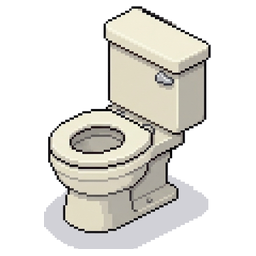
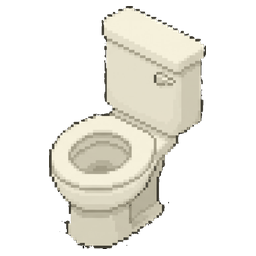
아동용 변기: 기본 변기 그림을 크림색으로 칠해 네 방향 지원
기본 변기 네 방향 그림을 아동용 변기 색으로 바꿔 쓰고, 2x2 자리에 맞춰 작게 그림.

Claude-Session: https://claude.ai/code/session_01MbA6voPuP9hfFURsXTDC13

Changed region(s): [[0.1562, 0.0, 0.8438, 1.0]]

diff --git a/js/config.js b/js/config.js
@@ -40,7 +40,7 @@ var MODU_CONFIG = {
       desc: '꼭 필요해요. 돌리기로 네 방향 어느 벽이든 등지게 놓을 수 있어요.' },
     // anchor: 'center' = 그림 가운데를 차지한 칸들의 가운데 위에 둠 (벽에서 앞으로 튀어나온 큰 벽걸이 물건)
     // 실제 약 35 × 50cm
-    { id: 'childToilet', name: '아동용 변기', layer: 'floor', group: '설비', w: 2, h: 2, rotations: [0, 3], emoji: '🚽', color: '#fff3c4',
+    { id: 'childToilet', name: '아동용 변기', layer: 'floor', group: '설비', w: 2, h: 2, rotations: [0, 3, 2, 1], emoji: '🚽', color: '#fff3c4',
       desc: '아이 몸에 맞는 작은 변기예요. 보호자와 함께 온 아이가 혼자 앉을 수 있어요.' },
     { id: 'sink', name: '세면대', layer: 'floor', mount: true, bands: [2], group: '설비', w: 3, h: 2, rotations: [0, 3, 2, 1], anchor: 'center', isoW: 2.3, emoji: '🚰', color: '#ffffff',
       desc: '벽에 거는 세면대예요. 네 벽 어디든(입구 앞 제외) 바로 옆에 가운데 높이로 붙고, 아래가 비어 있어 휠체어도 다가갈 수 있어요.' },

diff --git a/index.html b/index.html
@@ -7,7 +7,7 @@
 <link rel="preconnect" href="https://fonts.googleapis.com">
 <link rel="preconnect" href="https://fonts.gstatic.com" crossorigin>
 <link rel="stylesheet" href="https://fonts.googleapis.com/css2?family=Do+Hyeon&family=Gothic+A1:wght@400;600;800&display=swap">
-<link rel="stylesheet" href="style.css?v=1792648217">
+<link rel="stylesheet" href="style.css?v=1792648346">
 </head>
 <body>
 <!--APP-START-->
@@ -75,8 +75,8 @@
   </div>
 </div>
 <!--APP-END-->
-<script src="js/config.js?v=1792648217"></script>
-<script src="js/logic.js?v=1792648217"></script>
-<script src="js/game.js?v=1792648217"></script>
+<script src="js/config.js?v=1792648346"></script>
+<script src="js/logic.js?v=1792648346"></script>
+<script src="js/game.js?v=1792648346"></script>
 </body>
 </html>

diff --git a/README.md b/README.md
@@ -28,7 +28,7 @@
 
 | 설비 | 크기 | 방향 바꾸기 |
 |---|---|---|
-| 아동용 변기 | 2 × 2 | 두 방향 |
+| 아동용 변기 | 2 × 2 (기본 변기 그림을 크림색으로 칠해 작게) | 네 방향 |
 | 변기 | 2 × 3 | 네 방향 |
 | 세면대 | 3 × 2 (벽걸이: 네 벽 어디든 바로 옆(입구 앞 제외), 벽 가운데 높이, 바닥을 막지 않음) | 붙은 벽에 따라 자동, 모서리에서만 돌리기 |
 | 낮은 세면대 | 3 × 2 (벽걸이: 네 벽 어디든 바로 옆(입구 앞 제외), 벽 아래 단, 바닥을 막지 않음) | 세면대와 같음 |
